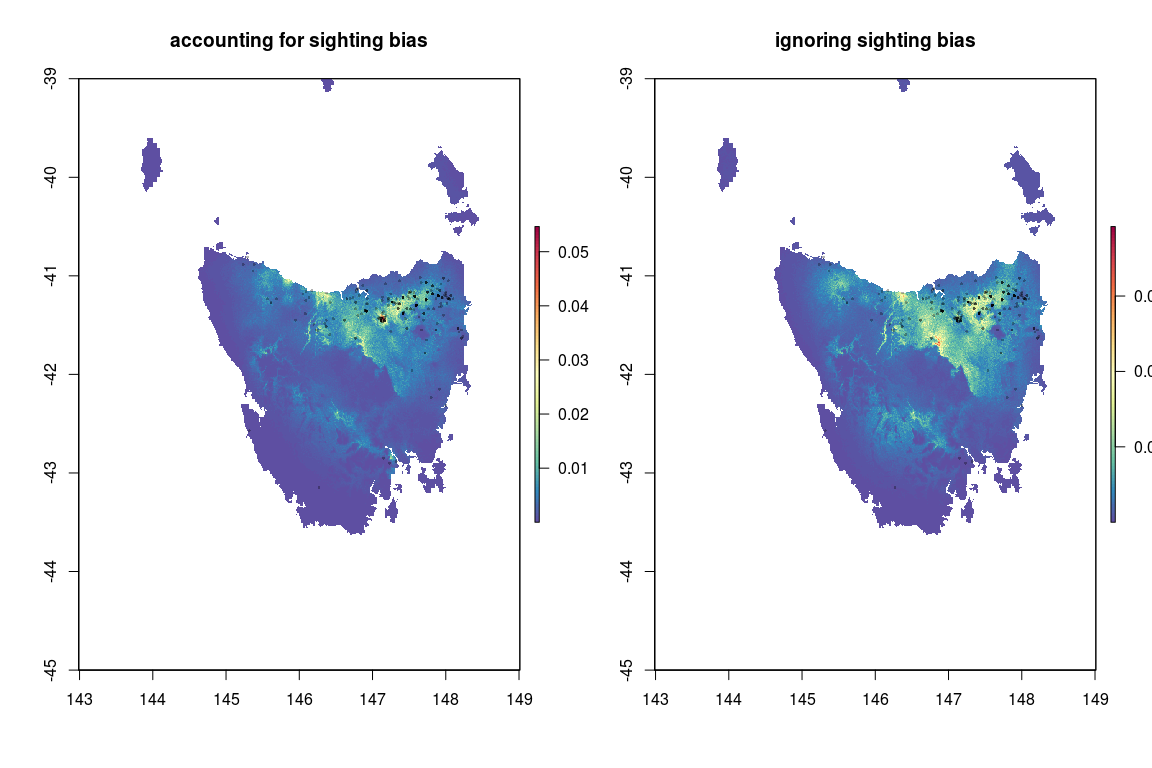
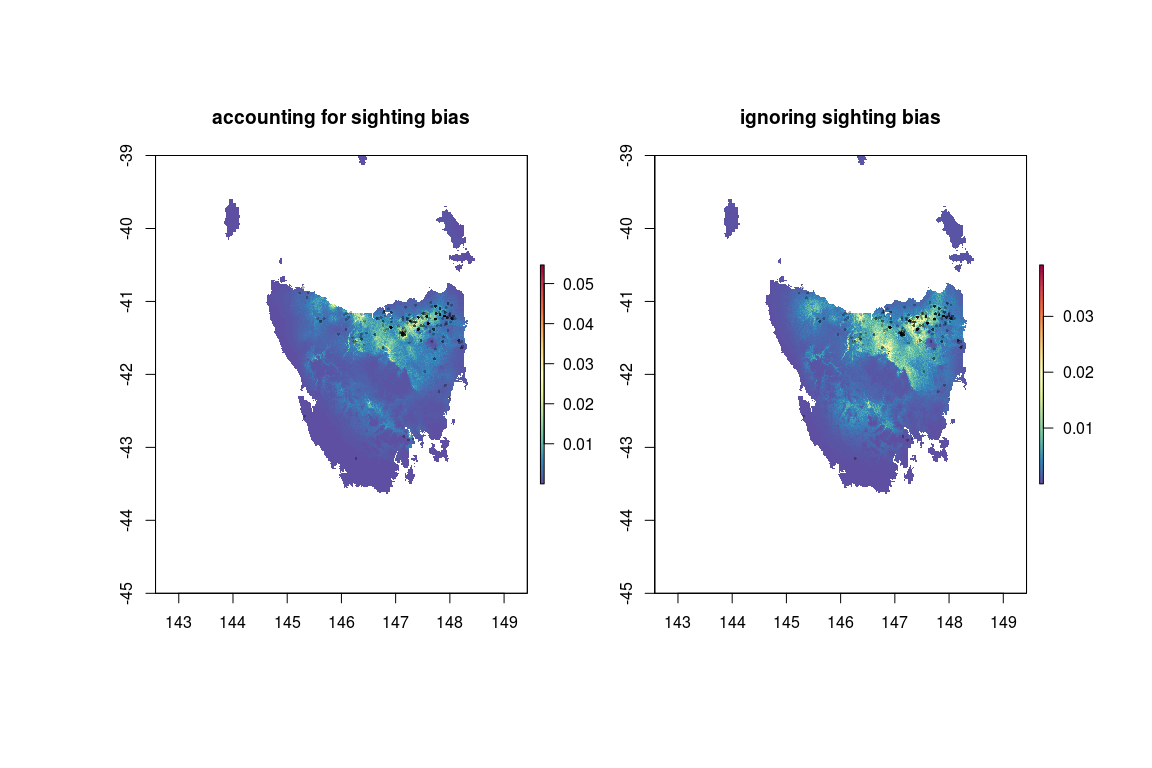
update readme

diff --git a/readme.md b/readme.md
@@ -171,7 +171,7 @@ plot(p3,col=jet.colors(100),main='Bernoulli PA gam')
 
 In section 2.5 *Identifiability and sampling bias* from Fithian & Hastie (2014), they discuss the challanging concept of accounting for sampling bias in presence-only models. The discuss how obtaining the *observation process* is difficult to achieve using precence-only data, and only really be related to the *sighting process*. This is because absences aren't explicitly recorded, so we aren't recording occurrence records, rather we only have information on sightings (presences). They state that if detection is independent across occurrences, then the *observation process* within a PPM should be defined as:
 
-$\\lambda(z) = \\tilde \\lambda(z) \\cdot s(z)$
+$ (z) = (z) s(z)$
 
 If we assume that there is no sampling bias, then by estimating *λ*(*z*) we are also estimating $\\tilde \\lambda(z)$, despite this assumption, we can only every obtain relative probabilities of occurrence (see Phillips and Elith 2013). Effectively this is what we have achieved in the sections above.
 
@@ -275,11 +275,11 @@ plot(p_bias_cell)
 
 The probability of *absence in an area of size A* according to the Poisson distribution is:
 
-*p**r*(*y* = 0)=*e**x**p*(−*s*(*z*)\**A*)
+$ pr(y=0) = exp(-s(z)\*A) $
 
 The prob of *presence* is then:
 
-*p**r*(*y* = 1)=1 − *p**r*(*y* = 0) =1 − *e**x**p*(−*s*(*z*)\**A*)
+$ pr( y=1) = 1-pr(y=0) $ $ = 1-exp(-s(z)\*A) $
 
 where *s*(*z*) = the intensity value at point *z* and *A* is the area of the sampling unit (cell size). *s* is estimated based on the distribution of Rhytididae species and covariates that aim to explain sampling bias, in this example we have used human population density and distance from main roads. (i'm not sure if this is right? Maybe it's just *s*(*z*), I need to double check)
 
@@ -295,9 +295,9 @@ bkpts_v_lampra <- generate_background_points(known_sites = po_v_lampra,
                                           method = 'grid')
 ```
 
-Now that we have estimated *s*(*z*) we can use it as an offset in the estimation of *λ*(*z*). If we refer to Fithian and Hastie 2014, we can see back in section 2.5 *Identifiability and sampling bias* that $\\lambda(z) = \\tilde \\lambda(z) \\cdot s(z)$, so we can directly translate this into an offset within a model that aims to estimated the *observation process* for *Victaphanta lampra*. This is because:
+Now that we have estimated *s*(*z*) we can use it as an offset in the estimation of $ (z)$. If we refer to Fithian and Hastie 2014, we can see back in section 2.5 *Identifiability and sampling bias* that $ (z) = (z) s(z)$, so we can directly translate this into an offset within a model that aims to estimated the *observation process* for *Victaphanta lampra*. This is because:
 
-$\\lambda(x)=\\exp^{\\tilde \\alpha + \\tilde\\beta^\\prime x\_1(z)} \\exp^{\\gamma^\\prime + \\delta x\_2(x)}$
+$ (x)= e^{+ ^x\_1(z)} e<sup>{</sup>+ x\_2(x)}$
 
 So we are assuming x1 and x2 are linearly independent. That is, there is little linear correlation betweem environmental covariates and our observation covariates, and we assume that the population and distance from roads explains sighting process, while the environmental covariates that describe various aspects of temperature and precipitation accounds for the occurrence process. This assumption of being linearly independent can fallover, in such a case, using information form presence-absence data like in Fithian *et al* 2015 can help address this problem.
 
@@ -337,7 +337,7 @@ p_v_lampra_w_s_cell <- p_v_lampra_w_s*area(tassie_preds_two)*1000
 p_v_lampra_wo_s_cell <- p_v_lampra_wo_s*area(tassie_preds_two)*1000
 jet.colors <- colorRampPalette(rev(RColorBrewer::brewer.pal(11 , "Spectral")))
 
-par(mfrow=c(1,2))
+par(mfrow=c(1,2),oma=c(4,4,4,4))
 plot(p_v_lampra_w_s_cell,col=jet.colors(100),main='accounting for sighting bias')
 points(po_v_lampra,pch=16,cex=0.4,col=rgb(0, 0, 0, 0.3))
 plot(p_v_lampra_wo_s_cell,col=jet.colors(100),main='ignoring sighting bias')
